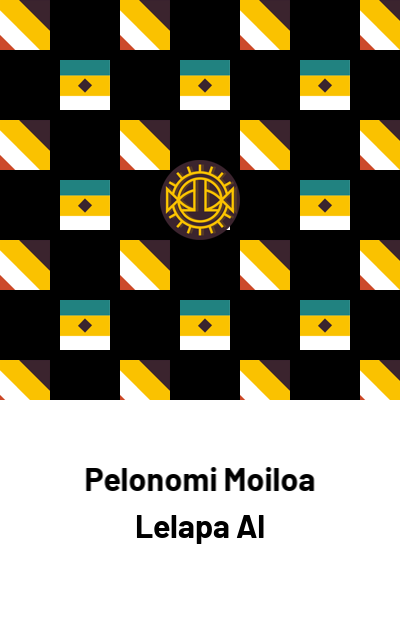
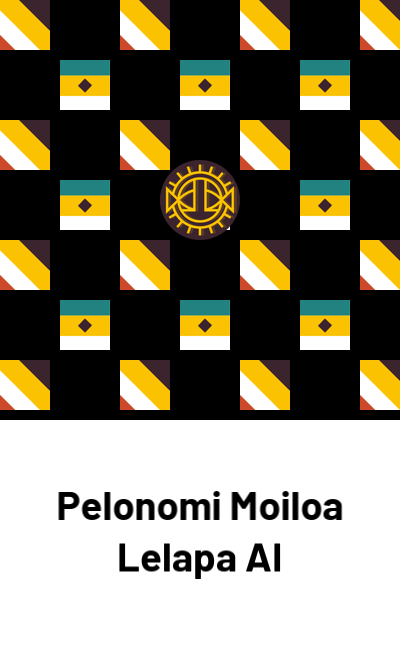
did some minor adjustments to placing

diff --git a/test2.py b/test2.py
@@ -48,7 +48,7 @@ def draw_background():
     # Background colour
     #fill(Color(255, 255, 255)) #white
     fill(Color(0,0,0)) #black
-    rect(0, 0, 400, 620)
+    rect(0, 0, 400, 666)
 
 def setup():
   
@@ -57,7 +57,7 @@ def setup():
     global grey_moon, yellow_star, pink_star, blue_star
     global pat1, pat2, pat3, pat4, pat5, pat6, pat7, pat8, pat9, logo
 
-    size(400, 620)
+    size(400, 666)
 
     # Load the images needed into variables
     logo = load_image('logo.png')
@@ -167,25 +167,24 @@ def draw():
 
 
     fill(Color(255,255,255)) #whitejade
-    rect(0, 400, 400, 220)
+    rect(0, 420, 400, 300)
 
 
     fill(Color(0,0,0))
-    my_font = create_font("Barlow-Bold.ttf", 32)
+    my_font = create_font("Barlow-Bold.ttf", 40)
     text_font(my_font)
     text_align('CENTER', 'CENTER')
-    text(name, 200, 475)
+    text(name, 200, 500)
 
 
 
     affl = input("Affiliation: ")
-    text(affl, 200, 525)
+    text(affl, 200, 555)
 
     rect_mode(CENTER)
 
 
 
-            
     filename = name +".png"
     save_canvas(filename)
 
